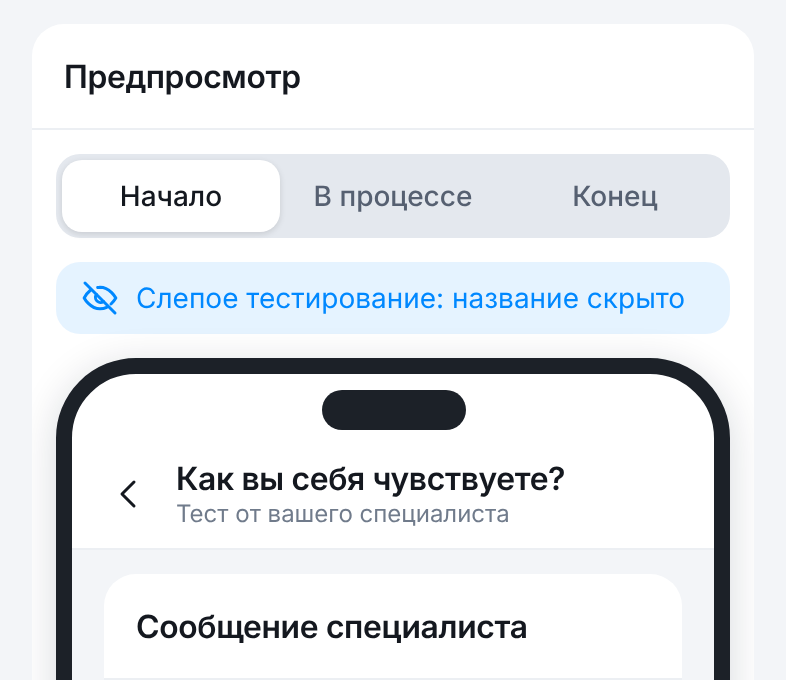
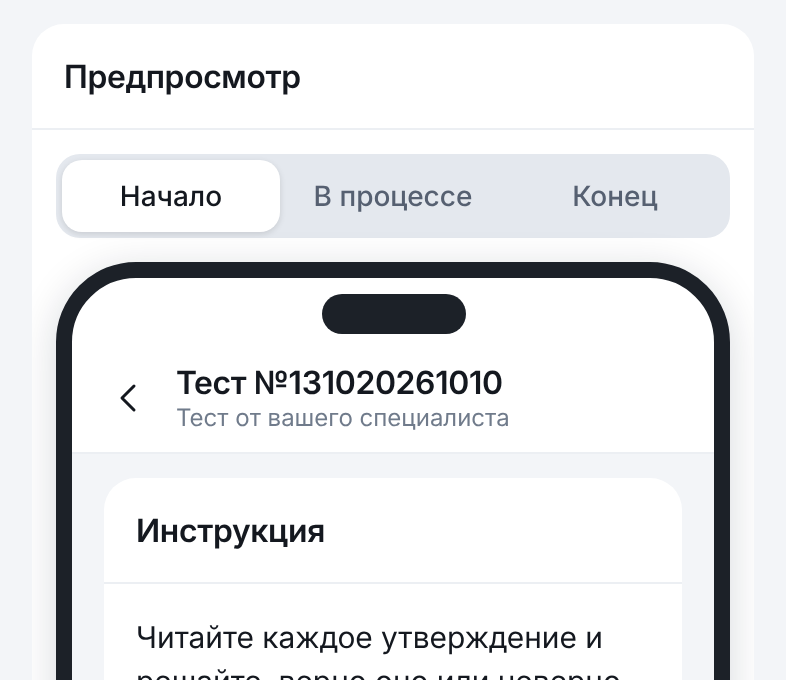
Слепой тест: «Тест №ДДММГГГГЧЧММ» вместо вопроса; без плашки в предпросмотре и без блока сообщения специалиста у клиента
Claude-Session: https://claude.ai/code/session_01PkfaRYH7Rjk9UeiToMFzDy

diff --git a/src/components/TestSettings/TestPreview.tsx b/src/components/TestSettings/TestPreview.tsx
@@ -1,8 +1,8 @@
 import { useEffect, useRef, useState, type TouchEvent } from 'react';
 import type { LibraryTest } from '../../data/library';
-import type { ResultMode } from '../../data/resultMode';
+import { blindTitle, type ResultMode } from '../../data/resultMode';
 import type { TestBlankData } from '../../data/testBlank';
-import { ClientIntro, IconEye, IconEyeOff, testFacts } from './ClientParts';
+import { ClientIntro, testFacts } from './ClientParts';
 import { CollapseCard } from './TestBlank';
 import { FillMeter } from './PassParts';
 import { TestDone } from './TestDone';
@@ -23,8 +23,6 @@ interface TestPreviewProps {
   blank: TestBlankData;
   /** Слепое тестирование: клиент не видит название теста и его цель */
   blind: boolean;
-  /** Сообщение клиенту; пустая строка, если оно выключено */
-  message: string;
   /** Что клиент увидит после теста */
   result: ResultMode;
   /** Время выполнения из описания теста («15–20 мин.») */
@@ -37,7 +35,9 @@ interface TestPreviewProps {
  * вопрос с ответами и завершение. Внутри рамки тот же интерфейс, что у клиента и при прохождении самому.
  * Ответы здесь никуда не сохраняются. При слепом тестировании название и значок теста скрыты.
  */
-export function TestPreview({ test, blank, blind, message, result, duration }: TestPreviewProps) {
+export function TestPreview({ test, blank, blind, result, duration }: TestPreviewProps) {
+  // Номер слепого теста в предпросмотре: время открытия настроек; у настоящего теста он ставится при отправке
+  const [title] = useState(() => blindTitle());
   const [stage, setStage] = useState<Stage>('start');
   const [index, setIndex] = useState(0);
   const [dir, setDir] = useState<'next' | 'prev'>('next');
@@ -107,18 +107,13 @@ export function TestPreview({ test, blank, blind, message, result, duration }: T
           ))}
         </div>
 
-        <p className={`tp__badge${blind ? ' tp__badge--blind' : ''}`}>
-          {blind ? <IconEyeOff /> : <IconEye />}
-          <span>{blind ? 'Слепое тестирование: название скрыто' : 'Клиент увидит название теста'}</span>
-        </p>
-
         <div className="tp__phone" data-hscroll>
           <div className="tp__status" aria-hidden="true">
             <span className="tp__notch" />
           </div>
-          <TestHeader test={test} client={{ blind }} status="Тест от вашего специалиста" />
+          <TestHeader test={test} client={{ blind, title }} status="Тест от вашего специалиста" />
           <div className="test-settings__scroll tp__screen" key={stage} ref={screenRef}>
-            {stage === 'start' && <ClientIntro message={message} rules={blank.rules} facts={testFacts(total, duration, result)} />}
+            {stage === 'start' && <ClientIntro message="" rules={blank.rules} facts={testFacts(total, duration, result)} />}
             {stage === 'progress' && (
               <PassQuestion
                 data={blank}

diff --git a/src/components/TestSettings/TestHeader.tsx b/src/components/TestSettings/TestHeader.tsx
@@ -1,7 +1,7 @@
 import type { CSSProperties } from 'react';
 import { IconBack, IconHeartGrayLg, IconHeartRedLg } from '../icons';
 import { toggleFavorite, toggleTaskFavorite, useFavorites, useTaskFavorites, type LibraryItem } from '../../data/library';
-import { BLIND_TITLE } from '../../data/resultMode';
+import { BLIND_FALLBACK_TITLE } from '../../data/resultMode';
 import './TestSettings.css';
 
 /** Название без аббревиатуры (на случай, если она осталась в заголовке): «BDI: Шкала депрессии А. Бека» → «Шкала депрессии А. Бека» */
@@ -19,7 +19,7 @@ interface TestHeaderProps {
    * Шапка клиента (тест или задание, присланное специалистом, и предпросмотр): те же значок, название и раздел,
    * но без «избранного» — это библиотека специалиста. Слепой тест клиенту не называют: значка нет, название нейтральное.
    */
-  client?: { blind?: boolean };
+  client?: { blind?: boolean; /** Название слепого теста («Тест №131020261007») */ title?: string };
 }
 
 /** Шапка экранов теста — как шапка открытого чата: назад, аватарка теста, название, раздел и сердечко «в избранное» на месте поиска и настроек */
@@ -41,7 +41,7 @@ export function TestHeader({ test, kind = 'test', status, onBack, client }: Test
           </span>
         )}
         <div className="test-settings__who">
-          <h1 className="test-settings__name">{hidden ? BLIND_TITLE : shortTitle(test.title)}</h1>
+          <h1 className="test-settings__name">{hidden ? (client?.title ?? BLIND_FALLBACK_TITLE) : shortTitle(test.title)}</h1>
           <p className="test-settings__status">{status}</p>
         </div>
       </div>

diff --git a/src/components/TestSettings/TestSettings.tsx b/src/components/TestSettings/TestSettings.tsx
@@ -25,6 +25,7 @@ import { ScrollHost } from '../ScrollHost/ScrollHost';
 import { TestPass } from './TestPass';
 import { TestResult } from './TestResult';
 import { conclusionFor } from '../../data/conclusions';
+import { blindTitle } from '../../data/resultMode';
 import { canPassSelf, formHint, takePass } from '../../data/selfTest';
 import { Toast } from '../Toast/Toast';
 import { useBackHandler } from '../../utils/backHandler';
@@ -203,7 +204,7 @@ export function TestSettings({ test, chatId, onBack }: TestSettingsProps) {
         test: test.id,
         testKind: 'sent',
         ...(id === SELF_ID ? { toSelf: true } : {}),
-        testOptions: { blind, result, saveBlank, ...(data.forms ? { form } : {}) },
+        testOptions: { blind, ...(blind ? { blindTitle: blindTitle() } : {}), result, saveBlank, ...(data.forms ? { form } : {}) },
       });
       // Журнал действий (история, вкладка «Тесты») пока ведётся только у Максима
       if (id === 'maxim') logStep('test', test.id, 'sent');
@@ -310,7 +311,7 @@ export function TestSettings({ test, chatId, onBack }: TestSettingsProps) {
     <section className="test-settings">
       <TestHeader
         test={test}
-        client={live ? { blind: passRequest?.blind } : undefined}
+        client={live ? { blind: passRequest?.blind, title: passRequest?.blindTitle } : undefined}
         status={live ? 'Тест от вашего специалиста' : STATUS[view]}
         onBack={view === 'settings' ? onBack : stepBack}
       />
@@ -520,7 +521,7 @@ export function TestSettings({ test, chatId, onBack }: TestSettingsProps) {
           </div>
         </section>
 
-        {blank && <TestPreview test={test} blank={blank} blind={blind} message={messageOn ? message : ''} result={result} duration={data.duration} />}
+        {blank && <TestPreview test={test} blank={blank} blind={blind} result={result} duration={data.duration} />}
       </div>
 
       <div className="test-settings__cta">

diff --git a/src/components/MessageBubble/MessageBubble.tsx b/src/components/MessageBubble/MessageBubble.tsx
@@ -1,7 +1,7 @@
 import { requestPass } from '../../data/selfTest';
 import { requestTaskPass, useAssignmentRecords } from '../../data/selfTask';
 import { recordsText, TASK_DEADLINES } from '../../data/taskValues';
-import { BLIND_TITLE } from '../../data/resultMode';
+import { BLIND_FALLBACK_TITLE } from '../../data/resultMode';
 import { useRef, useState, type PointerEvent } from 'react';
 import type { Message } from '../../data/messages';
 import type { LibraryItem } from '../../data/library';
@@ -239,7 +239,7 @@ export function MessageBubble({
                     ? 'Пройденный тест'
                     : 'Присланный тест'}
               </span>
-              <span className="tcard__title">{hiddenTest ? BLIND_TITLE : (test?.title ?? (isTask ? 'Задание' : 'Тест'))}</span>
+              <span className="tcard__title">{hiddenTest ? (message.testOptions?.blindTitle ?? BLIND_FALLBACK_TITLE) : (test?.title ?? (isTask ? 'Задание' : 'Тест'))}</span>
               {settings && message.testOptions?.blind && <span className="tcard__note">Слепой тест: клиент не видит название</span>}
               {!passed && permanent && (
                 <span className="tcard__note">
@@ -287,7 +287,7 @@ export function MessageBubble({
                 }
                 if (message.toSelf) {
                   const o = message.testOptions;
-                  requestPass({ testId: message.test!, form: o?.form ?? '', saveBlank: o?.saveBlank ?? true, blind: o?.blind ?? true, result: o?.result ?? 'thanks', message: message.text });
+                  requestPass({ testId: message.test!, form: o?.form ?? '', saveBlank: o?.saveBlank ?? true, blind: o?.blind ?? true, blindTitle: o?.blindTitle, result: o?.result ?? 'thanks', message: message.text });
                 }
                 onOpenTest(message.test!);
               }}

diff --git a/src/data/optionHelp.ts b/src/data/optionHelp.ts
@@ -51,14 +51,14 @@ export const OPTION_HELP: Record<OptionHelpId, OptionHelp> = {
         alt: 'Экран клиента: в шапке значок и полное название теста',
         title: 'Обычный тест',
         text: 'Клиент видит значок и название методики — он может догадаться, что именно желает проверить специалист.',
-        mark: { x: 21.37, y: 66.03, w: 68.45, h: 12.94 },
+        mark: { x: 21.37, y: 51.91, w: 68.45, h: 12.94 },
       },
       {
         src: blindOn,
-        alt: 'Экран клиента: в шапке вместо названия вопрос «Как вы себя чувствуете?»',
+        alt: 'Экран клиента: в шапке вместо названия «Тест №» с датой и временем отправки',
         title: 'Слепое тестирование',
         text: 'Значок и название методики скрываются для клиента — иногда, когда не знаешь, что выполняешь, ответы честнее.',
-        mark: { x: 21.37, y: 66.03, w: 68.45, h: 12.94 },
+        mark: { x: 21.37, y: 51.91, w: 68.45, h: 12.94 },
       },
       {
         src: blindChat,

diff --git a/src/data/resultMode.ts b/src/data/resultMode.ts
@@ -17,5 +17,11 @@ export const RESULT_FACT: Record<ResultMode, string> = {
   full: 'После теста увидите заключение',
 };
 
-/** Название слепого теста для клиента: ничего не говорит о методике */
-export const BLIND_TITLE = 'Как вы себя чувствуете?';
+/** Название слепого теста, когда номера нет (старые сообщения): ничего не говорит о методике */
+export const BLIND_FALLBACK_TITLE = 'Тест';
+
+/** Название слепого теста для клиента: «Тест №» и день, месяц, год и время отправки подряд, например «Тест №131020261007» */
+export function blindTitle(at: Date = new Date()) {
+  const two = (n: number) => String(n).padStart(2, '0');
+  return `Тест №${two(at.getDate())}${two(at.getMonth() + 1)}${at.getFullYear()}${two(at.getHours())}${two(at.getMinutes())}`;
+}

diff --git a/src/components/TestSettings/TestPass.tsx b/src/components/TestSettings/TestPass.tsx
@@ -159,7 +159,7 @@ export function TestPass({ testId, blank, form, saveBlank, onDone, client }: Tes
           <TestDone testId={testId} result={client.result} />
         ) : step < 0 ? (
           client ? (
-            <ClientIntro message={client.message} rules={blank.rules} facts={testFacts(total, client.duration, client.result)} />
+            <ClientIntro message="" rules={blank.rules} facts={testFacts(total, client.duration, client.result)} />
           ) : (
             <CollapseCard title="Инструкция" id="blank-rules">
               <BlankRules rules={blank.rules} />

diff --git a/src/data/messages.ts b/src/data/messages.ts
@@ -37,6 +37,8 @@ export interface SentTestOptions {
   /** Что клиент увидит после теста: благодарность, баллы или полное заключение */
   result: ResultMode;
   saveBlank: boolean;
+  /** Название слепого теста для клиента («Тест №131020261007»): номер задан при отправке; у старых сообщений его нет */
+  blindTitle?: string;
   /** Форма бланка, если у теста их несколько */
   form?: string;
 }

diff --git a/src/data/selfTest.ts b/src/data/selfTest.ts
@@ -205,6 +205,8 @@ export interface PassRequest {
   form: string;
   saveBlank: boolean;
   blind: boolean;
+  /** Название слепого теста: то же, что в карточке в чате */
+  blindTitle?: string;
   result: 'thanks' | 'score' | 'full';
   message: string;
 }

diff --git a/src/components/TestSettings/TestPreview.css b/src/components/TestSettings/TestPreview.css
@@ -60,11 +60,6 @@
   line-height: var(--line-height-sm);
 }
 
-.tp__badge--blind {
-  background: var(--color-accent-soft);
-  color: var(--color-accent);
-}
-
 .tp__badge svg {
   flex-shrink: 0;
 }

diff --git a/scripts/help-shots.py b/scripts/help-shots.py
@@ -187,7 +187,7 @@ def main():
                 phone.close()
 
         if want('result'):
-            # Итог для клиента: блок «Предпросмотр», этап «Конец» (кадр с y = 268; рамок нет)
+            # Итог для клиента: блок «Предпросмотр», этап «Конец» (кадр с y = 220; рамок нет)
             for name, mode in (('result-thanks', 'Только благодарность'), ('result-score', 'Только баллы'), ('result-full', 'Полное заключение')):
                 phone = Phone(p, args.base)
                 phone.open_smol()
@@ -199,7 +199,7 @@ def main():
                 phone.page.get_by_role('button', name='Конец').click()
                 phone.wait(900)
                 phone.page.evaluate("document.querySelector('#preview').scrollIntoView({block: 'start'})")
-                shots.take(phone, name, 268)
+                shots.take(phone, name, 220)
                 phone.close()
 
     print('Рамки для optionHelp.ts (mark):')
